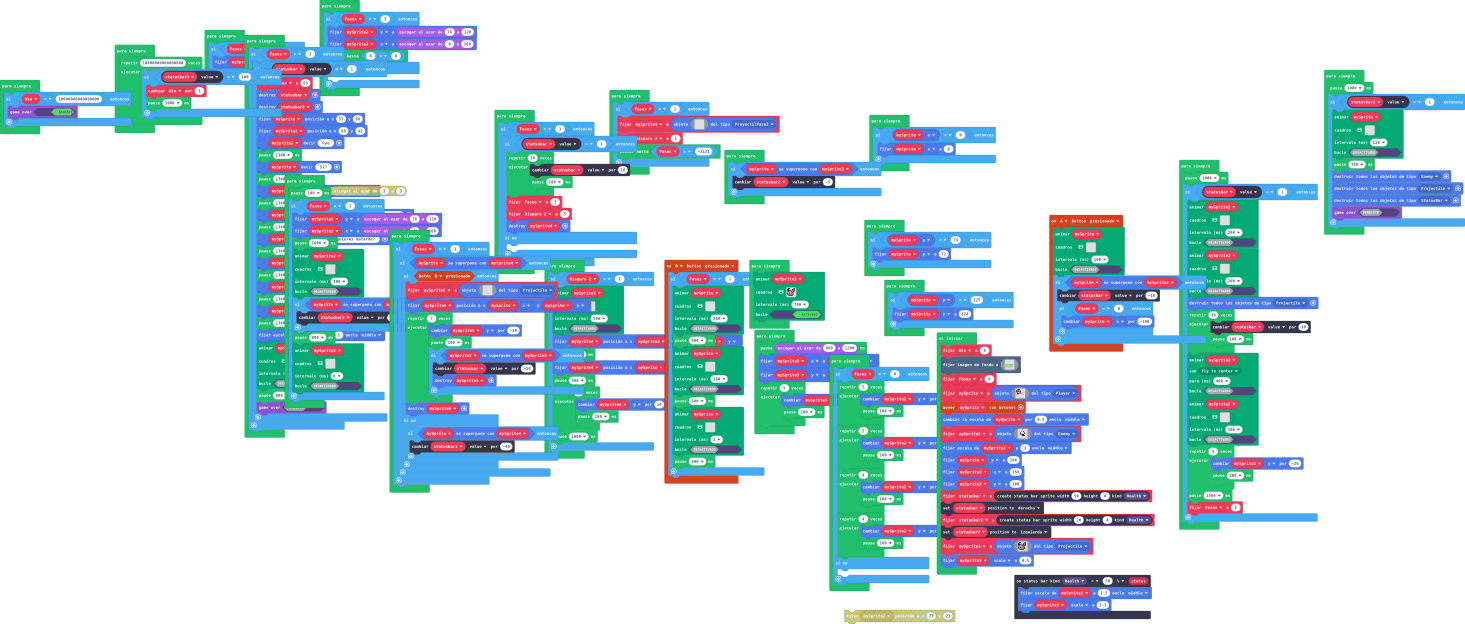
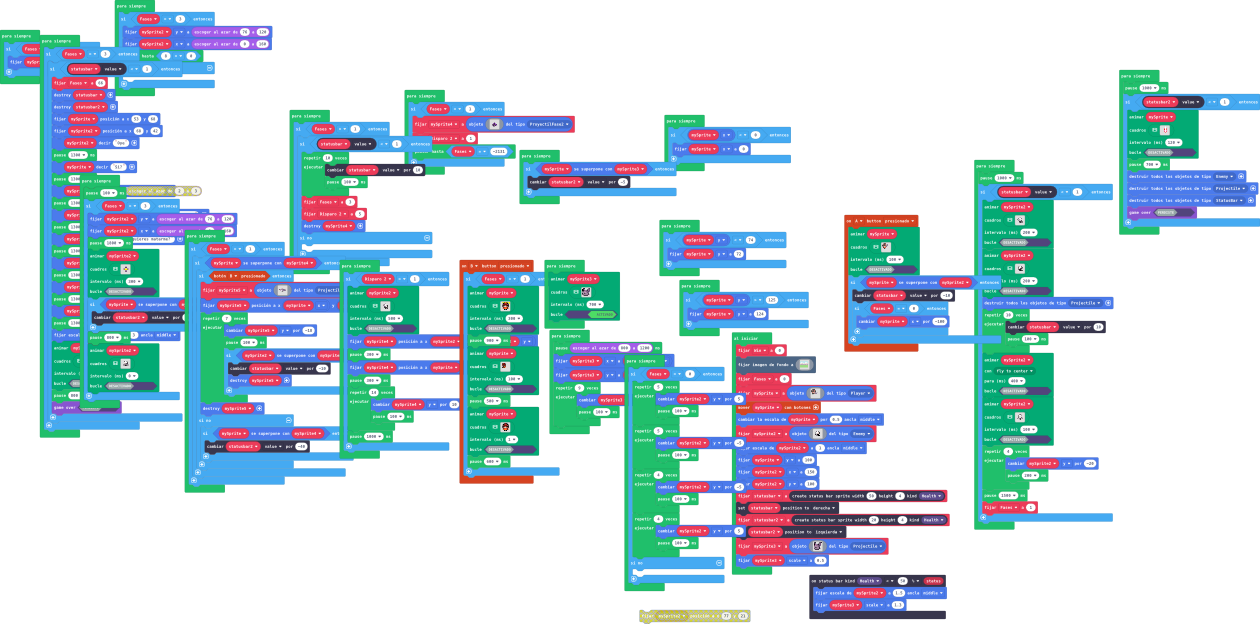
sin win

diff --git a/main.ts b/main.ts
@@ -611,19 +611,6 @@ forever(function () {
     }
 })
 forever(function () {
-    for (let index = 0; index < 10000000000000000; index++) {
-        if (statusbar2.value == 100) {
-            Win += 1
-            pause(1000)
-        }
-    }
-})
-forever(function () {
-    if (Win == 10000000000000000) {
-        game.gameOver(true)
-    }
-})
-forever(function () {
     if (Fases == 1) {
         mySprite4 = sprites.create(img`
             . . . . . . . . . . . . . . . . 
